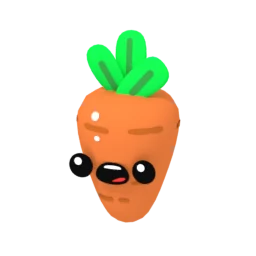
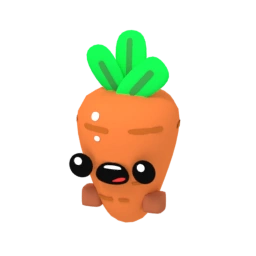
Bread, Coffee, Icecream and Carrot get the pack's stub hands, in the reference video's hand colours (plaza + portraits)

Changed region(s): [[0.5312, 0.7188, 0.6562, 0.8438], [0.3125, 0.7188, 0.4062, 0.8125]]

diff --git a/art/reconstruction/runtime/char_hands.py b/art/reconstruction/runtime/char_hands.py
@@ -1,0 +1,113 @@
+"""Stub hands for the pack characters that have none (owner, 2026-10-19): Bread, Coffee, Icecream and Carrot get the same hands
+as Avocado, Bacon, Banana, Donut, Milk and Watermelon. Used by bake_chars.py and bake_portraits.py right after a model is loaded.
+
+Measured on the six pack characters that have them (licensed/*.blend):
+ * shape: the pack's own hand, a rounded cube (98 vertices); copied here from Milk's right hand, so it is the identical shape;
+ * size: 0.30-0.50 model units as drawn (each model times its CSCALE), median 0.40; every new hand is 0.40 as drawn;
+ * place: on each side, its centre on the body's outline at about a fifth of the body's height (0.15-0.29 measured), a little
+   in front of the body's middle;
+ * colour: as game-setting.mp4 shows them (owner, 2026-10-20: the video's colours everywhere): its character-select circles show
+   these four WITH hands, Bread dark brown, Coffee light grey, Icecream teal, Carrot rust (median of each hand on a resting frame).
+   HAND holds that colour; the flat material is set RENDER_GAIN darker, since this light draws a flat colour ~1.2x brighter.
+The hands are a second material on the same mesh (a flat colour, no texture), so they turn, tilt and shade with the body."""
+import bmesh, bpy, os
+from mathutils import Vector, Matrix
+from mathutils.bvhtree import BVHTree
+
+HAND_SIZE = 0.40                   # as drawn (model units x CSCALE)
+HEIGHT = 0.20                      # hand centre, as a fraction of the body's height above its bottom
+FORWARD = 0.25                     # hand centre, as a fraction of the body's half-depth in front of its middle
+EMBED = 0.25                       # how much of a hand's width sinks into the body (Milk's hands just touch it; Bacon's are half in)
+# the hand colour as rendered (sRGB), as the video shows it
+HAND = {'bread': (123, 106, 70), 'coffee': (185, 185, 167), 'icecream': (84, 192, 184), 'carrot': (196, 106, 71)}
+RENDER_GAIN = 1.2
+NEEDS_HANDS = tuple(HAND)
+
+_shape = None
+
+
+def _hand_shape(lic):
+    """Milk's right hand (the pack's rounded cube): vertices centred and scaled to a 1-unit cube, and its faces."""
+    global _shape
+    if _shape is not None:
+        return _shape
+    with bpy.data.libraries.load(os.path.join(lic, 'milk', 'milk.blend'), link=False) as (src, dst):
+        dst.objects = ['milk']
+    milk = dst.objects[0]; me = milk.data
+    bm = bmesh.new(); bm.from_mesh(me); bm.verts.ensure_lookup_table()
+    start = min(bm.verts, key=lambda v: (v.co - Vector((1.012, -0.157, -1.201))).length)
+    seen, stack = {start.index}, [start]
+    while stack:
+        v = stack.pop()
+        for e in v.link_edges:
+            w = e.other_vert(v)
+            if w.index not in seen:
+                seen.add(w.index); stack.append(w)
+    verts = [bm.verts[i].co.copy() for i in sorted(seen)]
+    lo = Vector([min(p[i] for p in verts) for i in range(3)]); hi = Vector([max(p[i] for p in verts) for i in range(3)])
+    ctr, size = (lo + hi) / 2, max(hi - lo)
+    order = {i: k for k, i in enumerate(sorted(seen))}
+    faces = [[order[v.index] for v in f.verts] for f in bm.faces if all(v.index in seen for v in f.verts)]
+    bm.free(); bpy.data.objects.remove(milk); bpy.data.meshes.remove(me)
+    assert len(verts) == 98, f'expected the pack hand (98 vertices), got {len(verts)}'
+    _shape = ([(p - ctr) / size for p in verts], faces)
+    return _shape
+
+
+def _srgb_to_linear(c):
+    c = c / 255
+    return c / 12.92 if c <= 0.04045 else ((c + 0.055) / 1.055) ** 2.4
+
+
+def hand_colour(name):
+    """The hand's material colour (linear RGB): its rendered target, RENDER_GAIN darker."""
+    return tuple(_srgb_to_linear(c) / RENDER_GAIN for c in HAND[name])
+
+
+def add_hands(mesh, name, lic, draw_scale=1.0):
+    """Adds two stub hands to `mesh` (a pack model just linked into the scene, standing as loaded: up +Z, facing -Y in the world).
+    `draw_scale` is the model's CSCALE, so the hands come out HAND_SIZE as drawn. No-op for characters that already have hands."""
+    if name not in NEEDS_HANDS:
+        return
+    verts, faces = _hand_shape(lic)
+    bpy.context.view_layer.update()
+    to_world = mesh.matrix_world.copy(); to_local = to_world.inverted()
+    # the body: the largest connected part (the face and other decals are separate thin parts in front of it)
+    bm = bmesh.new(); bm.from_mesh(mesh.data); bm.transform(to_world); bm.faces.ensure_lookup_table()
+    seen, parts = set(), []
+    for f in bm.faces:
+        if f.index in seen:
+            continue
+        group, stack = [], [f]; seen.add(f.index)
+        while stack:
+            g = stack.pop(); group.append(g)
+            for e in g.edges:
+                for h in e.link_faces:
+                    if h.index not in seen:
+                        seen.add(h.index); stack.append(h)
+        parts.append(group)
+    body = max(parts, key=lambda g: sum(f.calc_area() for f in g))
+    pts = [v.co.copy() for f in body for v in f.verts]
+    lo = Vector([min(p[i] for p in pts) for i in range(3)]); hi = Vector([max(p[i] for p in pts) for i in range(3)])
+    tree = BVHTree.FromPolygons([v.co.copy() for v in bm.verts], [[v.index for v in f.verts] for f in body])
+    bm.free()
+    size = HAND_SIZE / draw_scale
+    z = lo.z + HEIGHT * (hi.z - lo.z)
+    y = (lo.y + hi.y) / 2 - FORWARD * (hi.y - lo.y) / 2          # in front: the pack faces -Y
+    cx = (lo.x + hi.x) / 2
+    mat = bpy.data.materials.new(f'hands_{name}'); mat.use_nodes = True
+    bs = next(n for n in mat.node_tree.nodes if n.type == 'BSDF_PRINCIPLED')
+    bs.inputs['Base Color'].default_value = (*hand_colour(name), 1.0)
+    bs.inputs['Roughness'].default_value = 1.0; bs.inputs['Specular IOR Level'].default_value = 0.0
+    mesh.data.materials.append(mat); slot = len(mesh.data.materials) - 1
+    bm = bmesh.new(); bm.from_mesh(mesh.data)
+    for side in (1, -1):
+        # the body's outline on this side at the hand's height: cast in from outside
+        start = Vector((cx + side * (hi.x - lo.x), y, z))
+        hit = tree.ray_cast(start, Vector((-side, 0, 0)))[0]
+        edge = hit.x if hit is not None else (hi.x if side > 0 else lo.x)
+        centre = Vector((edge + side * size * (0.5 - EMBED), y, z))
+        new = [bm.verts.new(to_local @ (centre + p * size)) for p in verts]
+        for f in faces:
+            face = bm.faces.new([new[i] for i in f]); face.material_index = slot; face.smooth = True
+    bm.normal_update(); bm.to_mesh(mesh.data); bm.free(); mesh.data.update()

diff --git a/art/reconstruction/runtime/bake_chars.py b/art/reconstruction/runtime/bake_chars.py
@@ -4,6 +4,7 @@ The camera is the map's game camera (maps/<map>.json): characters must be seen i
 Each cell is CELL x CELL px (RGBA); cells.json records, per character, the scale used and the ground-anchor pixel inside a cell.
 Materials follow the reconstruction (matte; Bread crust/crumb gains; Icecream desaturation)."""
 import bpy, json, math, os, sys
+sys.path.insert(0, os.path.dirname(os.path.abspath(__file__))); from char_hands import add_hands
 from mathutils import Vector, Matrix
 args = sys.argv[sys.argv.index('--') + 1:]; OUT = os.path.abspath(args[0]); WIDTH = int(args[1]); CHARS = args[2].split(','); os.makedirs(OUT, exist_ok=True)
 HERE = os.path.dirname(os.path.abspath(__file__)); AN = os.path.join(HERE, '..', 'analysis'); LIC = os.path.join(HERE, '..', 'licensed')
@@ -47,8 +48,10 @@ for name in CHARS:
     blend, obj = FILES[name]
     with bpy.data.libraries.load(os.path.join(LIC, name, blend), link=False) as (s1, d1): d1.objects = [obj]
     mesh = d1.objects[0]; bpy.context.collection.objects.link(mesh)
+    body_box = [Vector(c) for c in mesh.bound_box]                         # placed and centred by the body alone, as before hands
+    add_hands(mesh, name, LIC, CSCALE.get(name, 1.0))                                       # Bread, Coffee, Icecream, Carrot (char_hands.py)
     root = bpy.data.objects.new('ROOT', None); bpy.context.collection.objects.link(root); spin = bpy.data.objects.new('SPIN', None); bpy.context.collection.objects.link(spin); spin.parent = root; mesh.parent = spin
-    bpy.context.view_layer.update(); mesh.location.z -= min((mesh.matrix_world @ Vector(c)).z for c in mesh.bound_box)
+    bpy.context.view_layer.update(); mesh.location.z -= min((mesh.matrix_world @ c).z for c in body_box)
     for mt in mesh.data.materials:
         if not (mt and mt.node_tree): continue
         nt = mt.node_tree; bs = next(n for n in nt.nodes if n.type == 'BSDF_PRINCIPLED'); bs.inputs['Specular IOR Level'].default_value = 0.0; bs.inputs['Roughness'].default_value = 1.0
@@ -67,7 +70,7 @@ for name in CHARS:
         for j in range(N_YAW):
             yaw = 2 * math.pi * j / N_YAW
             root.location = (G.x, G.y, 0.0); root.rotation_euler = (math.radians(tdeg), 0, 0); root.scale = (k,) * 3; spin.rotation_euler = (0, 0, yaw)
-            bpy.context.view_layer.update(); pts = [mesh.matrix_world @ Vector(c) for c in mesh.bound_box]; ctr = sum(pts, Vector()) / 8
+            bpy.context.view_layer.update(); pts = [mesh.matrix_world @ c for c in body_box]; ctr = sum(pts, Vector()) / 8
             root.location.x += G.x - ctr.x; root.location.y += G.y - ctr.y                      # bbox centre over the anchor ground point
             sc.render.filepath = os.path.join(OUT, f'{name}_{tname}_{j:02d}.png'); bpy.ops.render.render(write_still=True)
 json.dump(meta, open(os.path.join(OUT, 'cells.json'), 'w'), indent=1); print('chars baked', OUT)

diff --git a/art/reconstruction/runtime/bake_portraits.py b/art/reconstruction/runtime/bake_portraits.py
@@ -4,6 +4,7 @@ Each portrait is SIZE x SIZE px (RGBA, transparent), the model framed by its bou
 alike. Materials as bake_chars.py (matte; Icecream desaturation). Facing: FRONT_YAW per model (found by test renders), or the
 optional yaw argument for every character (to find a model's front)."""
 import bpy, math, os, sys
+sys.path.insert(0, os.path.dirname(os.path.abspath(__file__))); from char_hands import add_hands
 from mathutils import Vector
 args = sys.argv[sys.argv.index('--') + 1:]; OUT = os.path.abspath(args[0]); SIZE = int(args[1]); CHARS = args[2].split(',')
 YAW_ALL = float(args[3]) if len(args) > 3 else None; os.makedirs(OUT, exist_ok=True)
@@ -28,6 +29,7 @@ for name in CHARS:
     blend, obj = FILES[name]
     with bpy.data.libraries.load(os.path.join(LIC, name, blend), link=False) as (s1, d1): d1.objects = [obj]
     mesh = d1.objects[0]; bpy.context.collection.objects.link(mesh)
+    add_hands(mesh, name, LIC, 1.0)                                       # Bread, Coffee, Icecream, Carrot (char_hands.py)
     spin = bpy.data.objects.new('SPIN', None); bpy.context.collection.objects.link(spin); mesh.parent = spin
     for mt in mesh.data.materials:
         if not (mt and mt.node_tree): continue
